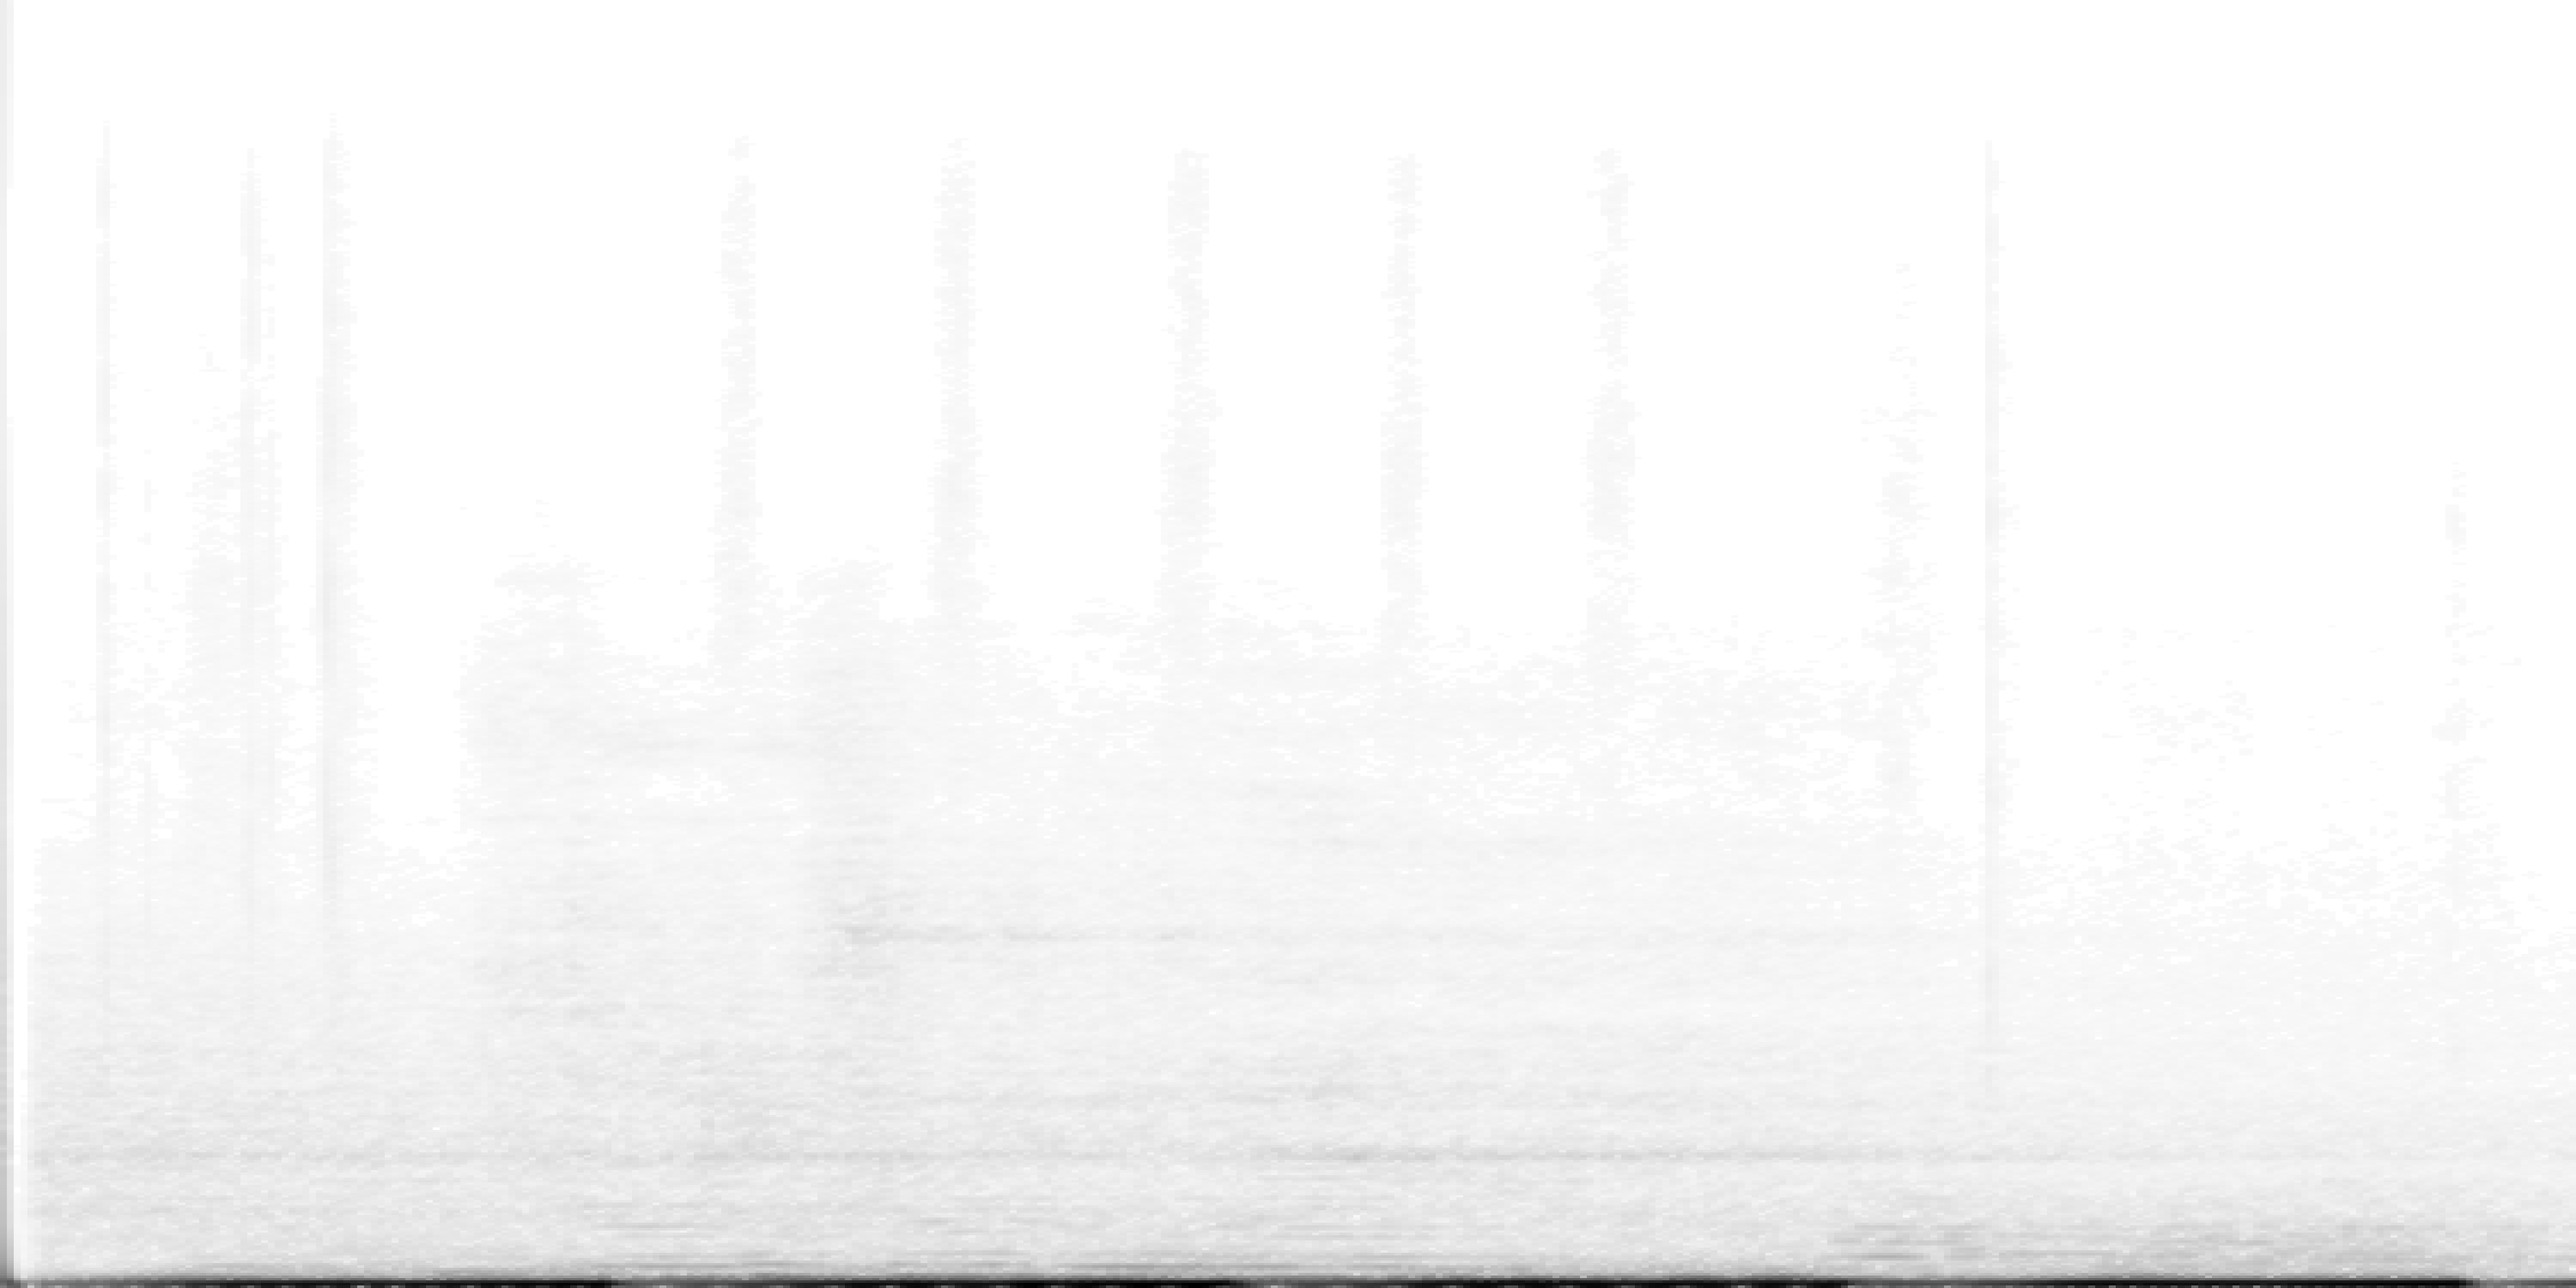
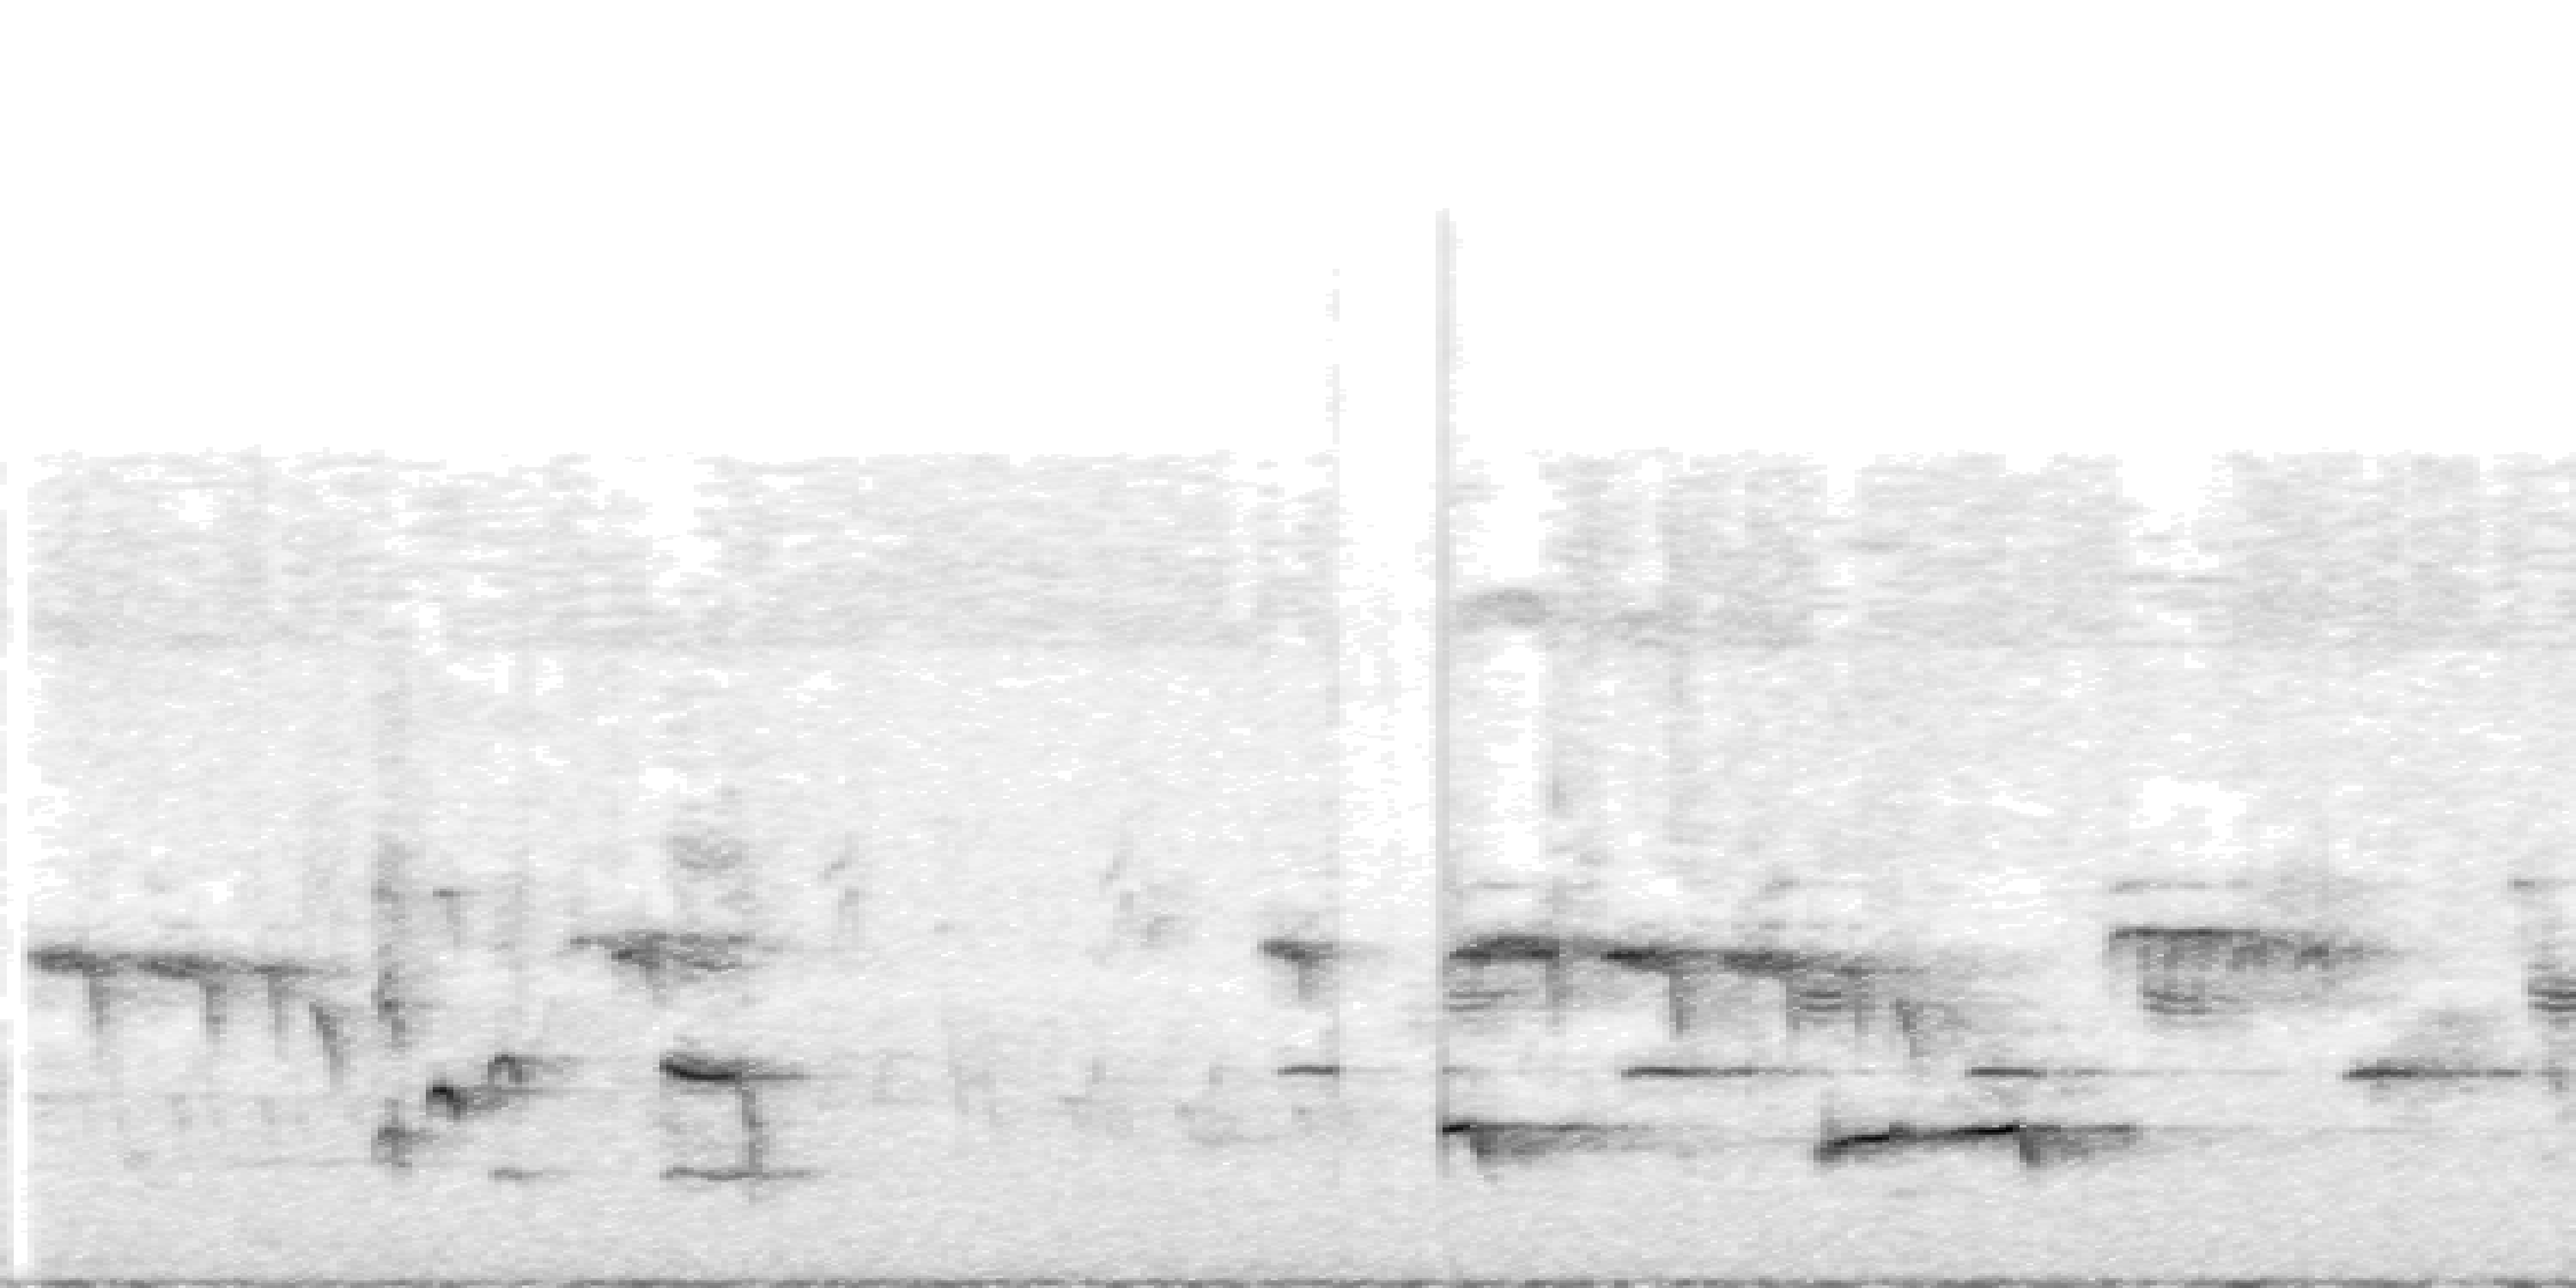
Maj
Ajout oiseaux
Amélioration correlation
Amélioration menu

Changed region(s): [[0.0, 0.341, 1.0, 1.0], [0.5298, 0.589, 0.561, 0.651], [0.0, 0.837, 0.0312, 0.868]]

diff --git a/Menura-Reco-Correlation/menura.py b/Menura-Reco-Correlation/menura.py
@@ -254,17 +254,22 @@ def spectrogramCleaner(ims):
     ])
     # passage par une array d'acentuation de l'image
     ims = signal.convolve2d(ims, conv_array, boundary='symm', mode='same')
-
     # calcul de la moyenne de l'image
     ims_mean = np.mean(ims)
-
     # suppression des éléments inférieurs a la moyenne
     # vectorization de la fonction pour sont exécution sur chaque cellule du tableau
     ims = np.vectorize(cleanerSpectro_Helper)(ims, ims_mean)
-
-
     # renvois de l'image nettoyée
     return ims
+
+"""
+Parsing du nom des oiseaux
+"""
+def pars_bird_name(name):
+    name = name.replace('samples-bank/bird/', '')
+    name = re.sub('_[0-9]*.png', '', name)
+    name = name.replace('_', ' ')
+    return name
 
 """
 Correlation entre l'image donnée et la banque de donnée
@@ -280,6 +285,12 @@ def sampleCorrelation(ims_plot_data, verbose):
     corr_threshold = 0.6 # seul de correlation = 60%
     corr_value_bypass = 0.80  # seul de correlation assurée = 80%
     max_number_of_correlation = 6 # Max 5 correlation si non erreur
+    # liste de détection des oiseaux
+    # et variables utilisées lors de la correlation
+    current_detection = []
+    best_corr_val = corr_threshold
+    best_corr_delta = 0
+    number_of_correlation = 0
     # Récupération de la liste des samples de test
     sampleList = glob.glob("samples-bank/bird/*.png")
     # Récupération du sample de silence
@@ -289,8 +300,6 @@ def sampleCorrelation(ims_plot_data, verbose):
     #ims_file = ims_file_name
     #ims = cv.imread(ims_file,0)
     ims = ims_plot_data
-
-    best_corr_val = 0
     best_corr_sample = ""
 
     # définition de la méthode de matching
@@ -317,10 +326,6 @@ def sampleCorrelation(ims_plot_data, verbose):
     if max_val > corr_threshold:
         return None, None
     else:
-        number_of_correlation = 0
-        best_corr_val = 0
-        best_corr_delta = 0
-
         for sample in sampleList :
             # import du sample de test comme template
             template = cv.imread(sample,0)
@@ -340,28 +345,37 @@ def sampleCorrelation(ims_plot_data, verbose):
                 print(f"with sample {sample} the coef of corr is : {bcolors.FAIL} {round(max_val,6)} {bcolors.ENDC} "
                       f"with delta: {round(delta,4)} \n")
             else:
+                # détection rentre dans les cirtère de valeurs
                 number_of_correlation += 1
+                # si trop de détection possible, arrêt des test de correlation
+                if number_of_correlation > max_number_of_correlation:
+                    break
                 if delta > corr_threshold and verbose:
                     print(f"with sample {sample} the coef of corr is : {bcolors.OKGREEN} {round(max_val, 6)} {bcolors.ENDC} "
                           f"with delta: {bcolors.FAIL} {round(delta, 4)} {bcolors.ENDC} \n")
                 elif verbose:
                     print(f"with sample {sample} the coef of corr is : {bcolors.OKGREEN} {round(max_val,6)} {bcolors.ENDC} "
                           f"with delta: {bcolors.OKGREEN} {round(delta,4)} {bcolors.ENDC} \n")
-            # Si on a 80% de correlation avec le sample de test, on arret les corrspondances
+            # Si on a 80% de correlation avec le sample de test, on arret les correspondances
             if (max_val > corr_value_bypass):
                 best_corr_val = max_val
                 best_corr_sample = sample
-                number_of_correlation = -1
                 break
             # Si une meilleur valeur de corrélation est obtenure
-            # et que le delta de correlation est inférieur au threshold de correlation
-            if max_val > best_corr_val and delta < corr_threshold:
-                # si la valeur est plus grande de 10% de la valeur précédente de correlation
-                # ou si le delta est inférieur au délta de correlation précédent
-                if (math.floor(max_val*10) > math.floor(best_corr_val*10)) or (delta < best_corr_delta):
-                    best_corr_val = max_val
-                    best_corr_delta = delta
-                    best_corr_sample = sample
+            if max_val > best_corr_val :
+                # si l'oiseau a déjà été détecté on ajoute de 5% de probabilitées
+                if (pars_bird_name(sample) in current_detection):
+                    if verbose:
+                        print(f"{bcolors.OKCYAN}{pars_bird_name(sample)} détecté, amélioration des probabilitées {bcolors.ENDC}")
+                    max_val += 0.05
+                    number_of_correlation -= 1
+                else:
+                    # ajout a la liste des oiseaux de correlation
+                    current_detection.append(pars_bird_name(sample))
+                # attribution comme meilleure correlation
+                best_corr_val = max_val
+                best_corr_delta = delta
+                best_corr_sample = sample
 
         # Vérification de la précision de la détection
         # si plus que la valeur de corr_threshold alors on considère que nous avons détecter quelque chose
@@ -373,9 +387,7 @@ def sampleCorrelation(ims_plot_data, verbose):
         else :
             corr_acc = round(best_corr_val * 100, 3)
             # parsing de la correlation pour la récupération du nom de l'oiseau
-            best_corr_sample = best_corr_sample.replace('samples-bank/bird/', '')
-            best_corr_sample = re.sub('_[0-9]*.png', '', best_corr_sample)
-            best_corr_sample = best_corr_sample.replace('_', ' ')
+            best_corr_sample = pars_bird_name(best_corr_sample)
             print(f"\n{bcolors.WARNING}|=================================================================================|"
                   f"\n{bcolors.WARNING}| Oiseau détecté par correlation : {bcolors.OKGREEN} {best_corr_sample} {bcolors.ENDC}"
                   f"\n{bcolors.WARNING}| Précision de la correlation : {bcolors.WARNING} {corr_acc} {bcolors.ENDC}%"
@@ -457,6 +469,11 @@ def choice_handler():
         menu_render.show_mac_add()
         cls()
         choice_handler()
+    elif (choix == "5"):
+        cls()
+        menu_render.show_bird_list()
+        cls()
+        choice_handler()
 
 """
     Main
@@ -486,6 +503,7 @@ def main():
             choice_handler()
         if dataSender.test_wifi_connection():
             dataSender.save_location(None)
+        cls()
         while True:
             # Record de l'audio
             sample, fs = recsample()

diff --git a/Menura-Reco-Correlation/menu_render.py b/Menura-Reco-Correlation/menu_render.py
@@ -2,6 +2,8 @@ import time
 from getmac import get_mac_address
 import sounddevice
 from art import *
+import glob
+import re
 
 """
 Class de couleur pour l'écriture en console
@@ -113,23 +115,56 @@ def config_printer(use_thread, max_thread, mic_entry):
     print(f"{bcolors.ENDC}")
 
 """
+Parsing du nom des oiseaux
+"""
+def pars_bird_name(name):
+    name = name.replace('samples-bank/bird/', '')
+    name = re.sub('_[0-9]*.png', '', name)
+    name = name.replace('_', ' ')
+    return name
+
+
+"""
+affichage de la liste des oiseaux prix en charge
+"""
+def show_bird_list():
+    sampleList = glob.glob("samples-bank/bird/*.png")
+    bird_list = []
+    for sample in sampleList:
+        sample_name = pars_bird_name(sample)
+        if sample_name not in bird_list:
+            bird_list.append(sample_name)
+    bird_list.sort()
+
+    tprint("Oiseaux")
+    print(f"\n \n")
+    print(f"{bcolors.OKCYAN}{bcolors.BOLD} liste des oiseaux pris en charge par notre application {bcolors.ENDC}")
+    print(f"\n")
+    for bird in bird_list:
+        print(f"{bcolors.OKCYAN}- {bird}{bcolors.ENDC}")
+    print(f"\n{bcolors.OKCYAN} {bcolors.BOLD} Pour un total de {len(bird_list)} oiseaux")
+
+    input(f"\n \n{bcolors.WARNING}entrez une touche pour quitter {bcolors.ENDC}\n")
+
+"""
 Helper pour le choix de l'entrée du menu
 """
 def choice_printer():
     print(f"{bcolors.BOLD}{bcolors.HEADER}")
-    print(f"|================================|")
-    print(f"|                                |")
-    print(f"|    Que voulez-vous faire ?     |")
-    print(f"|                                |")
-    print(f"|================================|")
-    print(f"|                                |")
-    print(f"| 1) mon historique              |")
-    print(f"| 2) multit thread               |")
-    print(f"| 3) choix de l'entrée micro     |")
-    print(f"| 4) mon adresse MAC             |")
-    print(f"|                                |")
-    print(f"| 0) Lancer la détection         |")
-    print(f"|================================|")
+    print(f"|==========================================|")
+    print(f"|                                          |")
+    print(f"|         Que voulez-vous faire ?          |")
+    print(f"|                                          |")
+    print(f"|==========================================|")
+    print(f"|                                          |")
+    print(f"|   1) mon historique                      |")
+    print(f"|   2) multit thread                       |")
+    print(f"|   3) choix de l'entrée micro             |")
+    print(f"|   4) mon adresse MAC                     |")
+    print(f"|   5) liste des oiseaux pris en charge    |")
+    print(f"|                                          |")
+    print(f"|   0) Lancer la détection                 |")
+    print(f"|==========================================|")
     print(f"{bcolors.ENDC} \n \n", end='\r')
 
 

diff --git a/Menura-Reco-Correlation/config.py b/Menura-Reco-Correlation/config.py
@@ -85,4 +85,3 @@ def load_config():
         use_thread_config = settings[0]
         max_thread_config = settings[1]
         mic_entry_config = settings[2]
-
